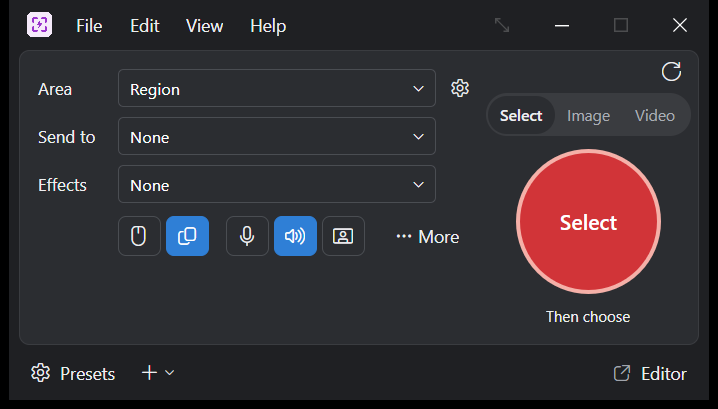
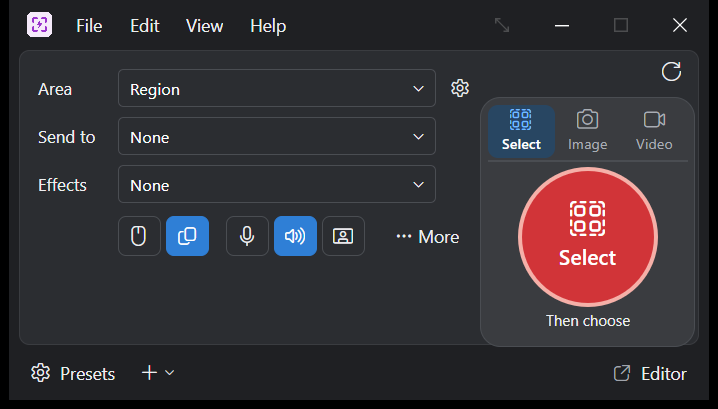
Use joined action dock for capture modes

Changed region(s): [[0.6741, 0.2347, 0.9499, 0.8509], [0.766, 0.4694, 0.8579, 0.5868]]

diff --git a/app/src/win/ui/capture_view.rs b/app/src/win/ui/capture_view.rs
@@ -64,7 +64,11 @@ const MODES: [(&str, &str); 3] = [
     ("Video", "Record video (Ctrl+3)"),
 ];
 
+const MODE_GLYPHS: [&str; 3] = ["\u{E8B3}", "\u{E722}", "\u{E714}"];
+
 const WHITE: Color = parts::rgb(0xFFFFFF);
+const SELECTED_MODE_DARK: Color = parts::rgb(0x284662);
+const SELECTED_MODE_ICON_DARK: Color = parts::rgb(0x73BAFF);
 const CAPTURE_RED: Color = parts::rgb(0xD13438);
 const CAPTURE_RED_HOVER: Color = parts::rgb(0xB82B2F);
 const CAPTURE_RING: Color = parts::rgb(0xF5B0A8);
@@ -259,10 +263,28 @@ pub fn build(scope: &AppScope, binding: &CaptureBinding) -> Result<Window> {
 
     let capture_button = {
         let hover = scope.signal(false);
+        let verb = TextBlock::el()
+            .text(move || match (tab.get(), action.get().0.as_str()) {
+                (1, "Start") | (0, "Start") => "Start images".to_owned(),
+                (1, "Stop") | (0, "Stop") => "Stop images".to_owned(),
+                (_, verb) => verb.to_owned(),
+            })
+            .text_alignment(TextAlignment::Center)
+            .horizontal_alignment(HorizontalAlignment::Center)
+            .text_wrapping(TextWrapping::Wrap)
+            .width(92.0)
+            .font_size(17.0)
+            .font_weight(FontWeight::DemiBold)
+            .foreground(WHITE);
+        let content = StackPanel::el()
+            .spacing(5.0)
+            .horizontal_alignment(HorizontalAlignment::Center)
+            .child(glyph(MODE_GLYPHS[0], 28.0).text(move || MODE_GLYPHS[tab.get().min(2)].to_owned()).horizontal_alignment(HorizontalAlignment::Center).foreground(WHITE))
+            .child(verb);
         let button = Button::el()
-            .width(116.0)
-            .height(116.0)
-            .corner_radius(58.0)
+            .width(112.0)
+            .height(112.0)
+            .corner_radius(56.0)
             .padding(0.0)
             .border_thickness(3.0)
             .border_brush(CAPTURE_RING)
@@ -276,32 +298,39 @@ pub fn build(scope: &AppScope, binding: &CaptureBinding) -> Result<Window> {
                 let (verb, detail, _) = action.get();
                 if detail.is_empty() { verb } else { format!("{verb}: {}", detail.replace('\n', " · ")) }
             })
-            .content(
-                TextBlock::el()
-                    .text(move || match (tab.get(), action.get().0.as_str()) {
-                        (1, "Start") | (0, "Start") => "Start images".to_owned(),
-                        (1, "Stop") | (0, "Stop") => "Stop images".to_owned(),
-                        (_, verb) => verb.to_owned(),
-                    })
-                    .text_alignment(TextAlignment::Center)
-                    .text_wrapping(TextWrapping::Wrap)
-                    .width(92.0)
-                    .font_size(17.0)
-                    .font_weight(FontWeight::DemiBold)
-                    .foreground(WHITE),
-            );
+            .content(content);
         on_click(button, &subs, |_| run("capture".into()))
     };
-    let modes = Border::el()
-        .width(164.0)
-        .height(34.0)
-        .padding(2.0)
-        .corner_radius(17.0)
+    let detail = TextBlock::el()
+        .visible(move || !action.get().1.is_empty())
+        .text(move || action.get().1)
+        .width(144.0)
+        .horizontal_alignment(HorizontalAlignment::Center)
+        .text_alignment(TextAlignment::Center)
+        .text_wrapping(TextWrapping::Wrap)
+        .font_size(12.0)
+        .foreground(move || palette(dark).text);
+    let mode_dock = Border::el()
+        .width(172.0)
+        .height(200.0)
+        .padding(5.0)
+        .corner_radius(16.0)
         .background(move || palette(dark).edge)
+        .border_brush(move || palette(dark).frame)
+        .border_thickness(1.0)
         .child(
-            Grid::el()
-                .column_definitions("*,*,*")
-                .children_iter(MODES.iter().enumerate().map(|(i, &(label, tip))| mode_button(dark, tab, &subs, i, label, tip))),
+            StackPanel::el()
+                .horizontal_alignment(HorizontalAlignment::Center)
+                .child(
+                    Grid::el()
+                        .width(160.0)
+                        .height(44.0)
+                        .column_definitions("*,*,*")
+                        .children_iter(MODES.iter().enumerate().map(|(i, &(label, tip))| mode_button(dark, tab, &subs, i, label, tip))),
+                )
+                .child(Border::el().width(160.0).height(1.0).margin((0.0, 1.0, 0.0, 0.0)).background(move || palette(dark).frame))
+                .child(capture_button.margin((0.0, 4.0, 0.0, 0.0)))
+                .child(detail.margin((0.0, 2.0, 0.0, 0.0))),
         );
     let reset = on_click(
         flat(dark)
@@ -367,24 +396,11 @@ pub fn build(scope: &AppScope, binding: &CaptureBinding) -> Result<Window> {
                 )
                 .child(
                     Grid::el().grid_column(1).child(reset).child(
-                        StackPanel::el()
+                        Border::el()
                             .vertical_alignment(VerticalAlignment::Top)
                             .horizontal_alignment(HorizontalAlignment::Center)
-                            .margin((0.0, 34.0, 0.0, 0.0))
-                            .spacing(10.0)
-                            .child(modes)
-                            .child(capture_button)
-                            .child(
-                                TextBlock::el()
-                                    .visible(move || !action.get().1.is_empty())
-                                    .text(move || action.get().1)
-                                    .width(144.0)
-                                    .horizontal_alignment(HorizontalAlignment::Center)
-                                    .text_alignment(TextAlignment::Center)
-                                    .text_wrapping(TextWrapping::Wrap)
-                                    .font_size(12.0)
-                                    .foreground(move || palette(dark).text),
-                            ),
+                            .margin((0.0, 38.0, 0.0, 0.0))
+                            .child(mode_dock),
                     ),
                 ),
         );
@@ -653,25 +669,41 @@ fn toggle_chip(dark: Signal<bool>, subs: &Subscriptions, toggle: &Toggle) -> El<
     )
 }
 
-/// One segment of the Select | Image | Video mode switch.
+/// One mode selector in the joined action dock.
 fn mode_button(dark: Signal<bool>, tab: Signal<usize>, subs: &Subscriptions, i: usize, label: &str, tip: &str) -> El<Button> {
     let on = move || tab.get() == i;
+    let selected_background = move || if dark.get() { SELECTED_MODE_DARK } else { palette(dark).accent };
+    let selected_foreground = move || if dark.get() { SELECTED_MODE_ICON_DARK } else { WHITE };
     on_click(
         Button::el()
             .grid_column(i as i32)
-            .height(30.0)
+            .height(42.0)
             .padding((4.0, 0.0, 4.0, 0.0))
-            .corner_radius(15.0)
+            .corner_radius(8.0)
             .border_thickness(0.0)
             .horizontal_alignment(HorizontalAlignment::Stretch)
+            .vertical_alignment(VerticalAlignment::Stretch)
             .horizontal_content_alignment(HorizontalAlignment::Center)
             .vertical_content_alignment(VerticalAlignment::Center)
-            .background(move || if on() { palette(dark).card } else { parts::TRANSPARENT })
-            .foreground(move || if on() { palette(dark).text } else { palette(dark).muted })
-            .font_size(12.5)
-            .font_weight(move || if on() { FontWeight::DemiBold } else { FontWeight::Normal })
+            .background(move || if on() { selected_background() } else { parts::TRANSPARENT })
             .tool_tip_tip(super::shortcut(tip))
-            .content(label.to_owned()),
+            .content(
+                StackPanel::el()
+                    .spacing(2.0)
+                    .child(
+                        glyph(MODE_GLYPHS[i], 17.0)
+                            .horizontal_alignment(HorizontalAlignment::Center)
+                            .foreground(move || if on() { selected_foreground() } else { palette(dark).muted }),
+                    )
+                    .child(
+                        TextBlock::el()
+                            .text(label.to_owned())
+                            .horizontal_alignment(HorizontalAlignment::Center)
+                            .font_size(11.5)
+                            .font_weight(move || if on() { FontWeight::DemiBold } else { FontWeight::Normal })
+                            .foreground(move || if on() { WHITE } else { palette(dark).muted }),
+                    ),
+            ),
         subs,
         move |_| run(format!("tab:{i}")),
     )

diff --git a/README.md b/README.md
@@ -88,7 +88,7 @@ The detailed feature list below describes the Windows application. The Linux bui
   <img src="docs/images/capture-window.png" alt="Jiffshot Capture Window" width="560" />
 </p>
 
-- **One Capture Window:** Switch between **Select**, **Image**, and **Video** above the round red button. Select an area and choose what to create afterward, capture an image directly, or record video. Each mode shows its relevant options and Send to destinations; video hides image Effects. Picking Region, Window or Fullscreen in Select or Image sets both image and video; image-only modes like Scrolling keep video on its last area. Press **Enter** to run the selected mode or **Ctrl+1/2/3** to switch modes. Your last mode is remembered. The Capture Widget and tray workflows remain available.
+- **One Capture Window:** The joined action dock groups the **Select**, **Image**, and **Video** mode selector with the round red action button. Choose a mode, then use the separate red button to select an area and choose what to create, capture an image, or record video. Each mode shows its relevant options and Send to destinations; video hides image Effects. Picking Region, Window or Fullscreen in Select or Image sets both image and video; image-only modes like Scrolling keep video on its last area. Press **Enter** to run the selected mode or **Ctrl+1/2/3** to switch modes. Your last mode is remembered. The Capture Widget and tray workflows remain available.
 - **Smart Selection Overlay:** Captures from an instant frozen desktop snapshot so transient UI states never move while you aim. Includes a live pixel magnifier with coordinates and `#RRGGBB` color readout, dimension labels, and on-screen help (`F1`).
 - **Specialized Capture Modes:**
   - **Scrolling Capture:** Automatically scrolls and stitches vertical, horizontal, or two-axis scrolling windows and web pages.
